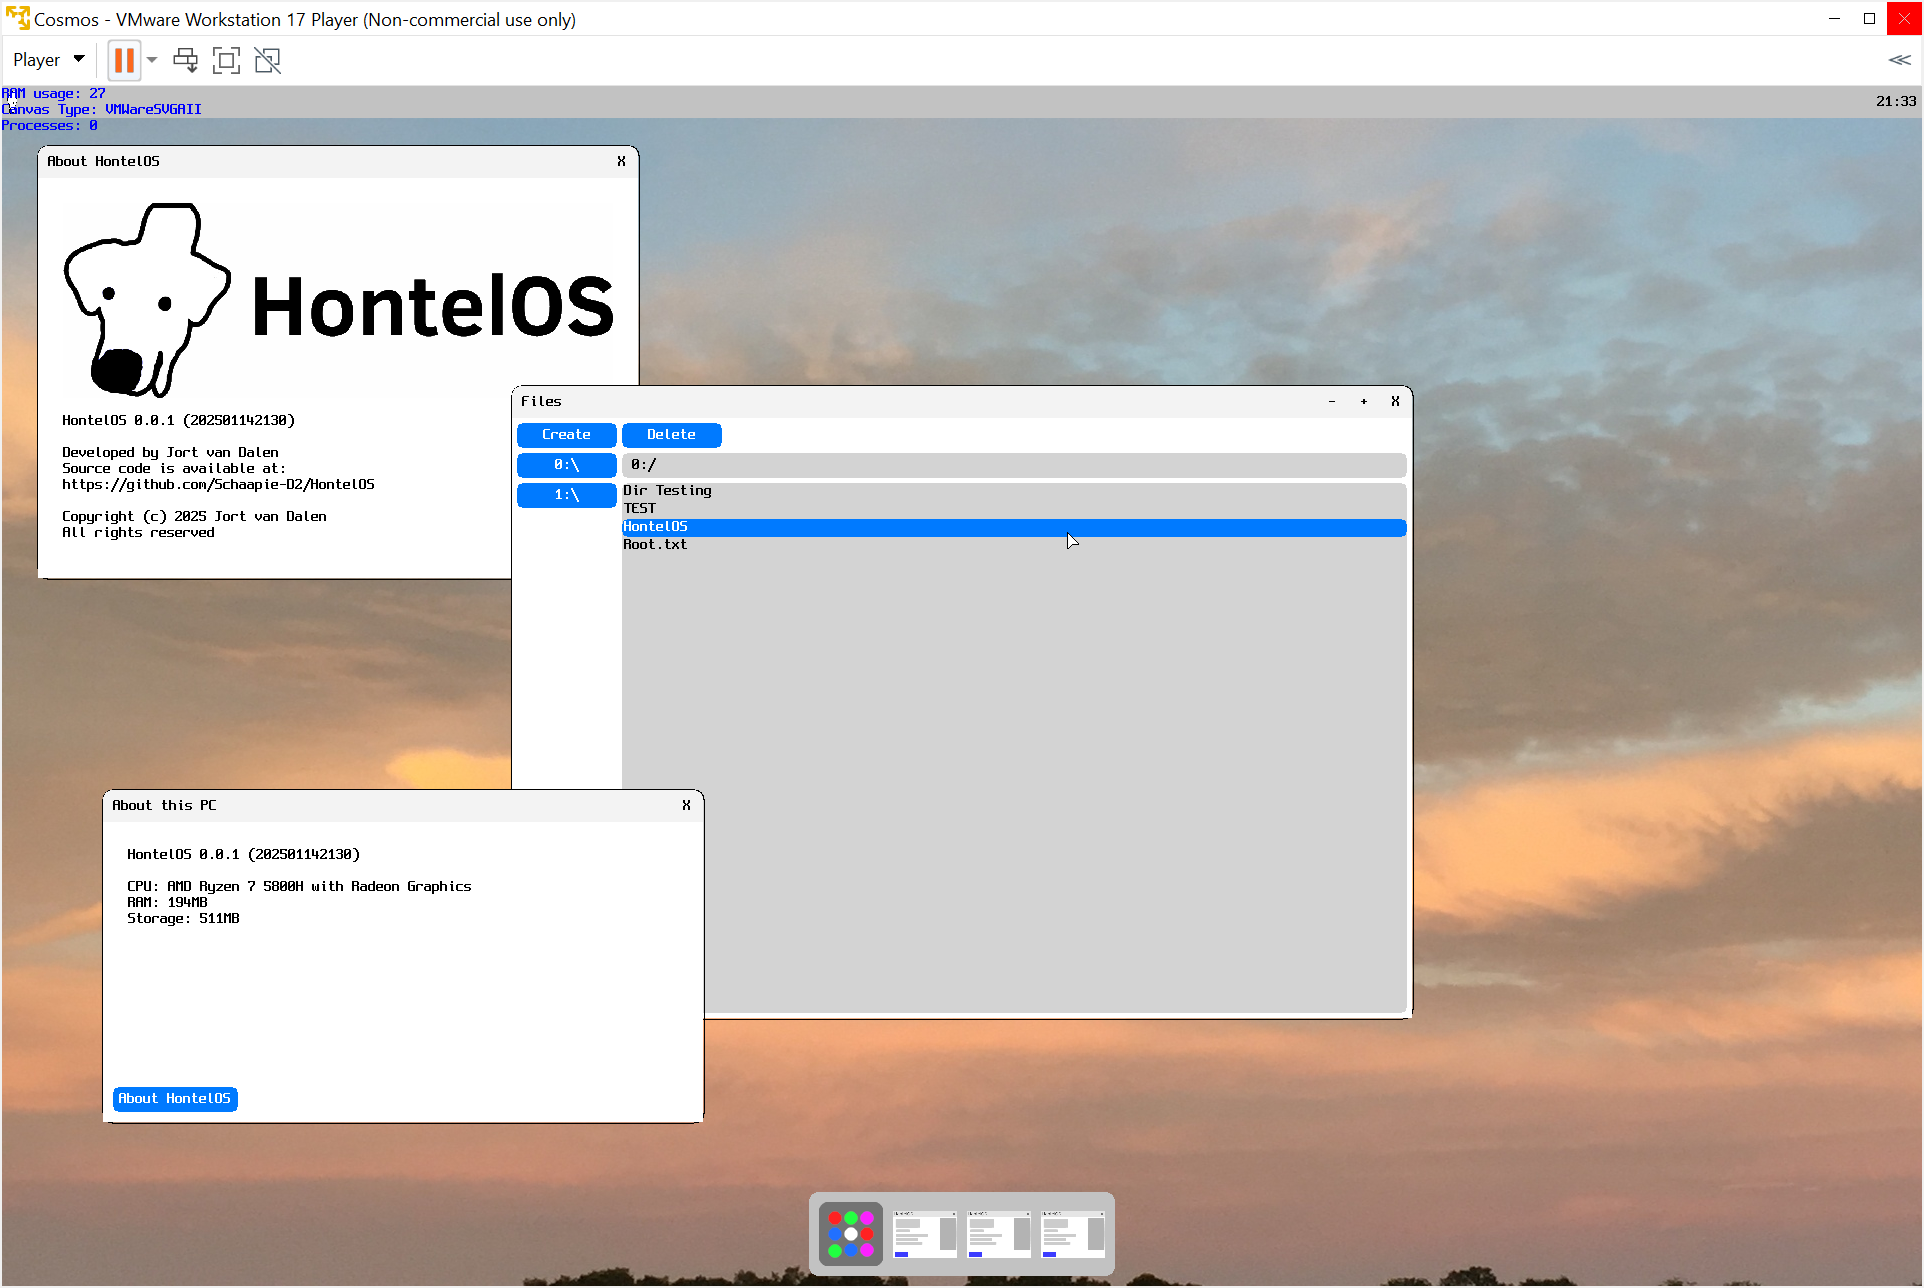
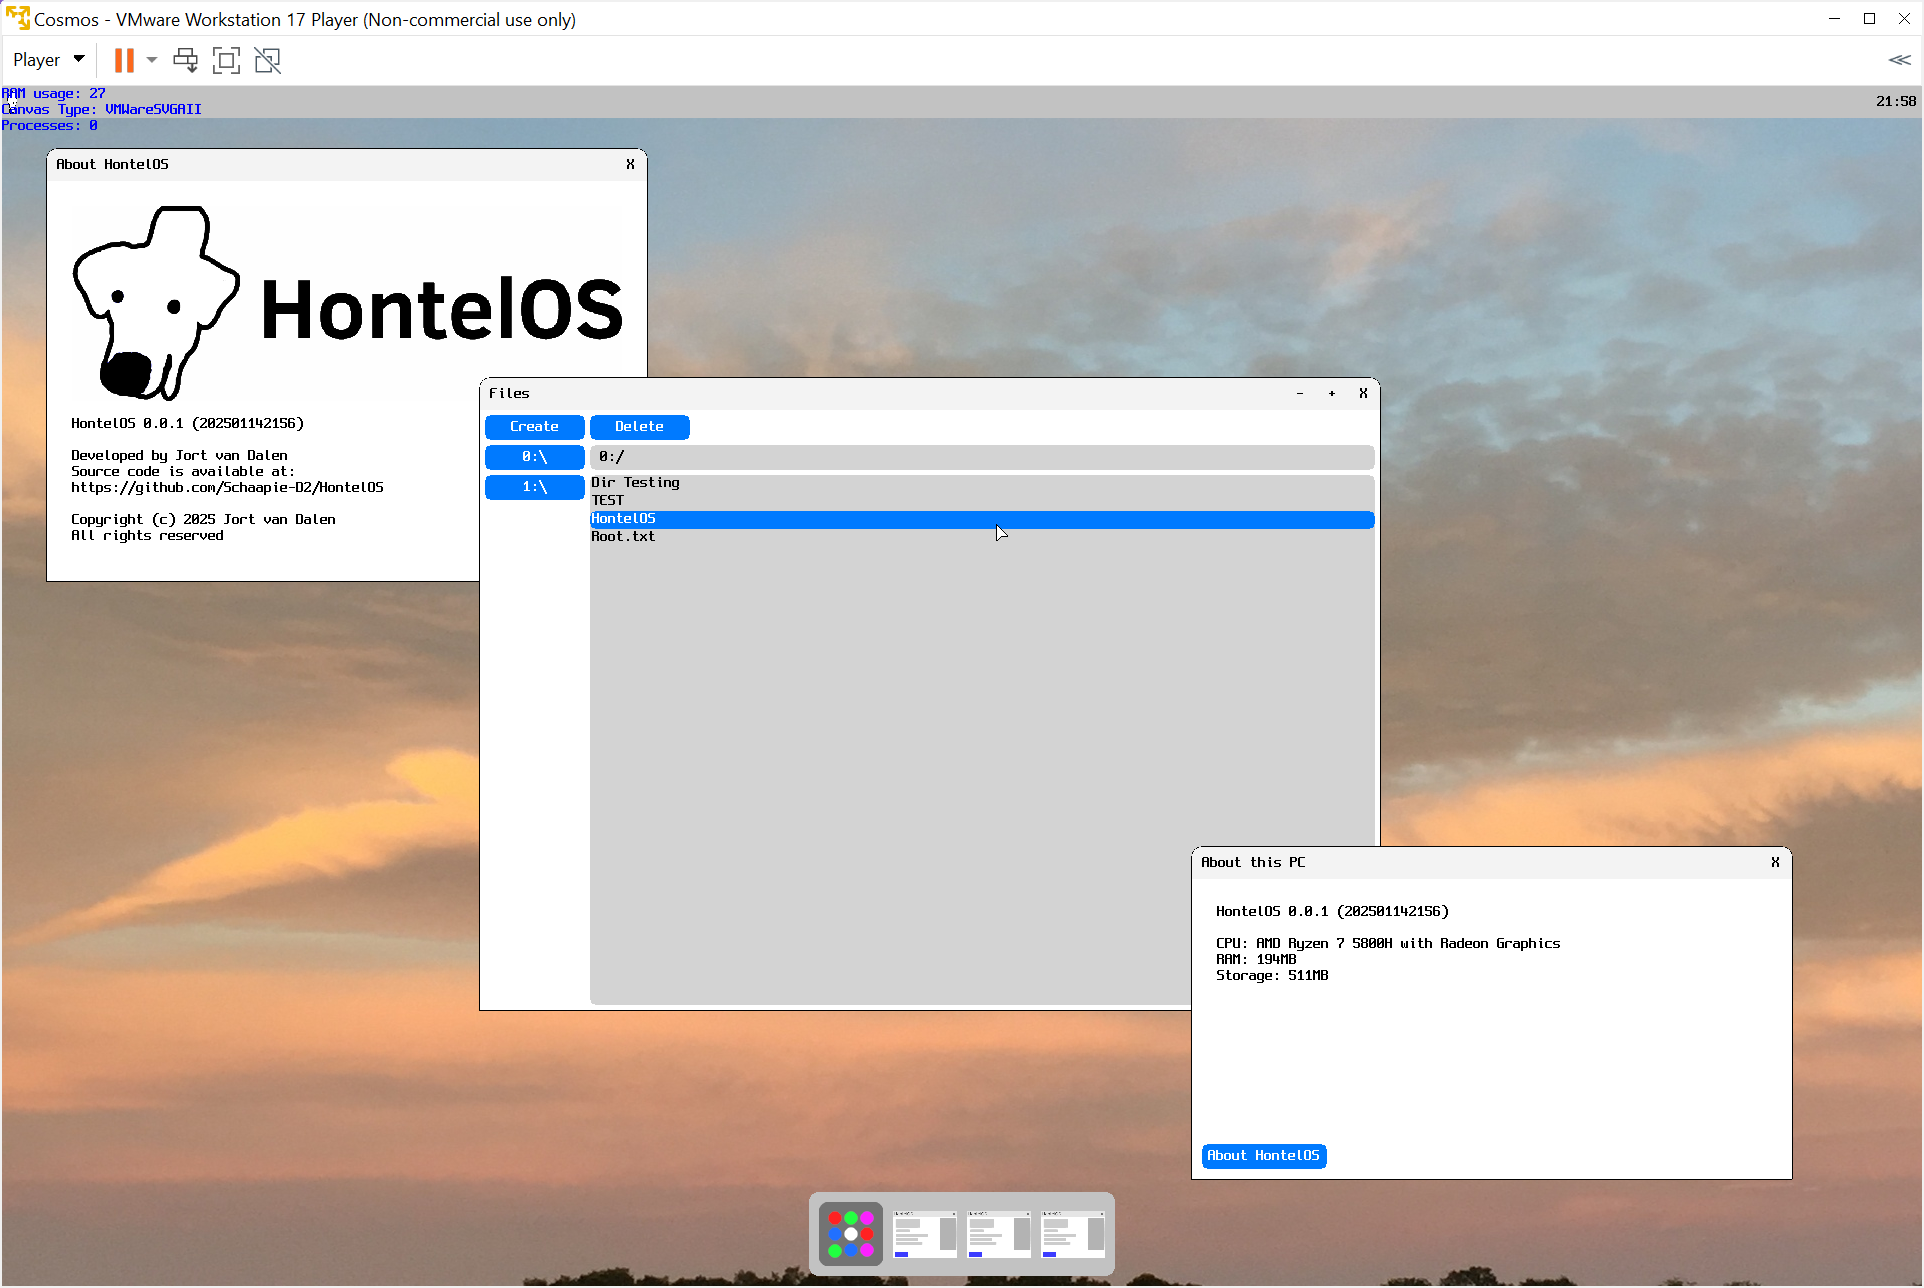
🐛Solved Problems With Windows
Border is now aligned properly

Changed region(s): [[0.0, 0.0932, 0.9356, 0.9317], [0.9667, 0.0, 1.0, 0.0311]]

diff --git a/HontelOS/System/Graphics/Window.cs b/HontelOS/System/Graphics/Window.cs
@@ -78,10 +78,11 @@ namespace HontelOS.System.Graphics
             if (!IsVisable)
                 return;
 
-            c.DrawRoundedRectangle(Color.Black, X - 1, Y - 1, Width + 2, Height + 34, 10);
+            c.DrawRoundedRectangle(Color.Black, X - 1, Y - 1, Width + 1, 33, 10);
 
             if (WindowStyle == WindowStyle.Normal)
             {
+                c.DrawRectangle(Color.Black, X - 1, Y + 16, Width + 1, Height + 16);
                 c.DrawFilledTopRoundedRectangle(Style.Window_HandleColor, X, Y, Width, 32, 10);//handel
 
                 if (Icon != null)
@@ -104,6 +105,7 @@ namespace HontelOS.System.Graphics
             }
             else if (WindowStyle == WindowStyle.Dialog)
             {
+                c.DrawRectangle(Color.Black, X - 1, Y + 16, Width + 1, Height + 16);
                 c.DrawFilledTopRoundedRectangle(Style.Window_HandleColor, X, Y, Width, 32, 10);//handel
 
                 if (Icon != null)
@@ -120,7 +122,7 @@ namespace HontelOS.System.Graphics
             }
             else if (WindowStyle == WindowStyle.Borderless)
             {
-                
+                c.DrawRectangle(Color.Black, X - 1, Y - 1, Width + 1, Height + 1);
             }
 
             if (!IsDirty)
@@ -168,6 +170,8 @@ namespace HontelOS.System.Graphics
                     if (Kernel.MouseInArea(X + Width - 96, Y, X + Width - 64, Y + 32) && Kernel.MouseClick())
                         Minimize();
                 }
+
+                ViewX = X; ViewY = Y + 32;
             }
             else if (WindowStyle == WindowStyle.Dialog)
             {
@@ -185,6 +189,8 @@ namespace HontelOS.System.Graphics
                     if (Kernel.MouseInArea(X + Width - 32, Y, X + Width, Y + 32) && Kernel.MouseClick())
                         Close();
                 }
+
+                ViewX = X; ViewY = Y + 32;
             }
             else if (WindowStyle == WindowStyle.Borderless)
             {
@@ -196,12 +202,12 @@ namespace HontelOS.System.Graphics
                     if (Kernel.MouseClick())
                         WindowManager.SetFocused(WID);
                 }
+
+                ViewX = X; ViewY = Y;
             }
 
             if (Y < 32)
-                Y = 32; 
-
-            ViewX = X; ViewY = Y + 32;
+                Y = 32;
 
             if (MouseManager.MouseState != MouseState.Left && isHoldingHandel)
                 isHoldingHandel = false;

diff --git a/HontelOS/System/VersionInfo.cs b/HontelOS/System/VersionInfo.cs
@@ -4,6 +4,6 @@ namespace HontelOS.System
     {
 	    public static string Description = "This is a test version.";
         public static string Version = "0.0.1";
-		public static string VersionNumber = "202501142130";
+		public static string VersionNumber = "202501142156";
     }
 }
